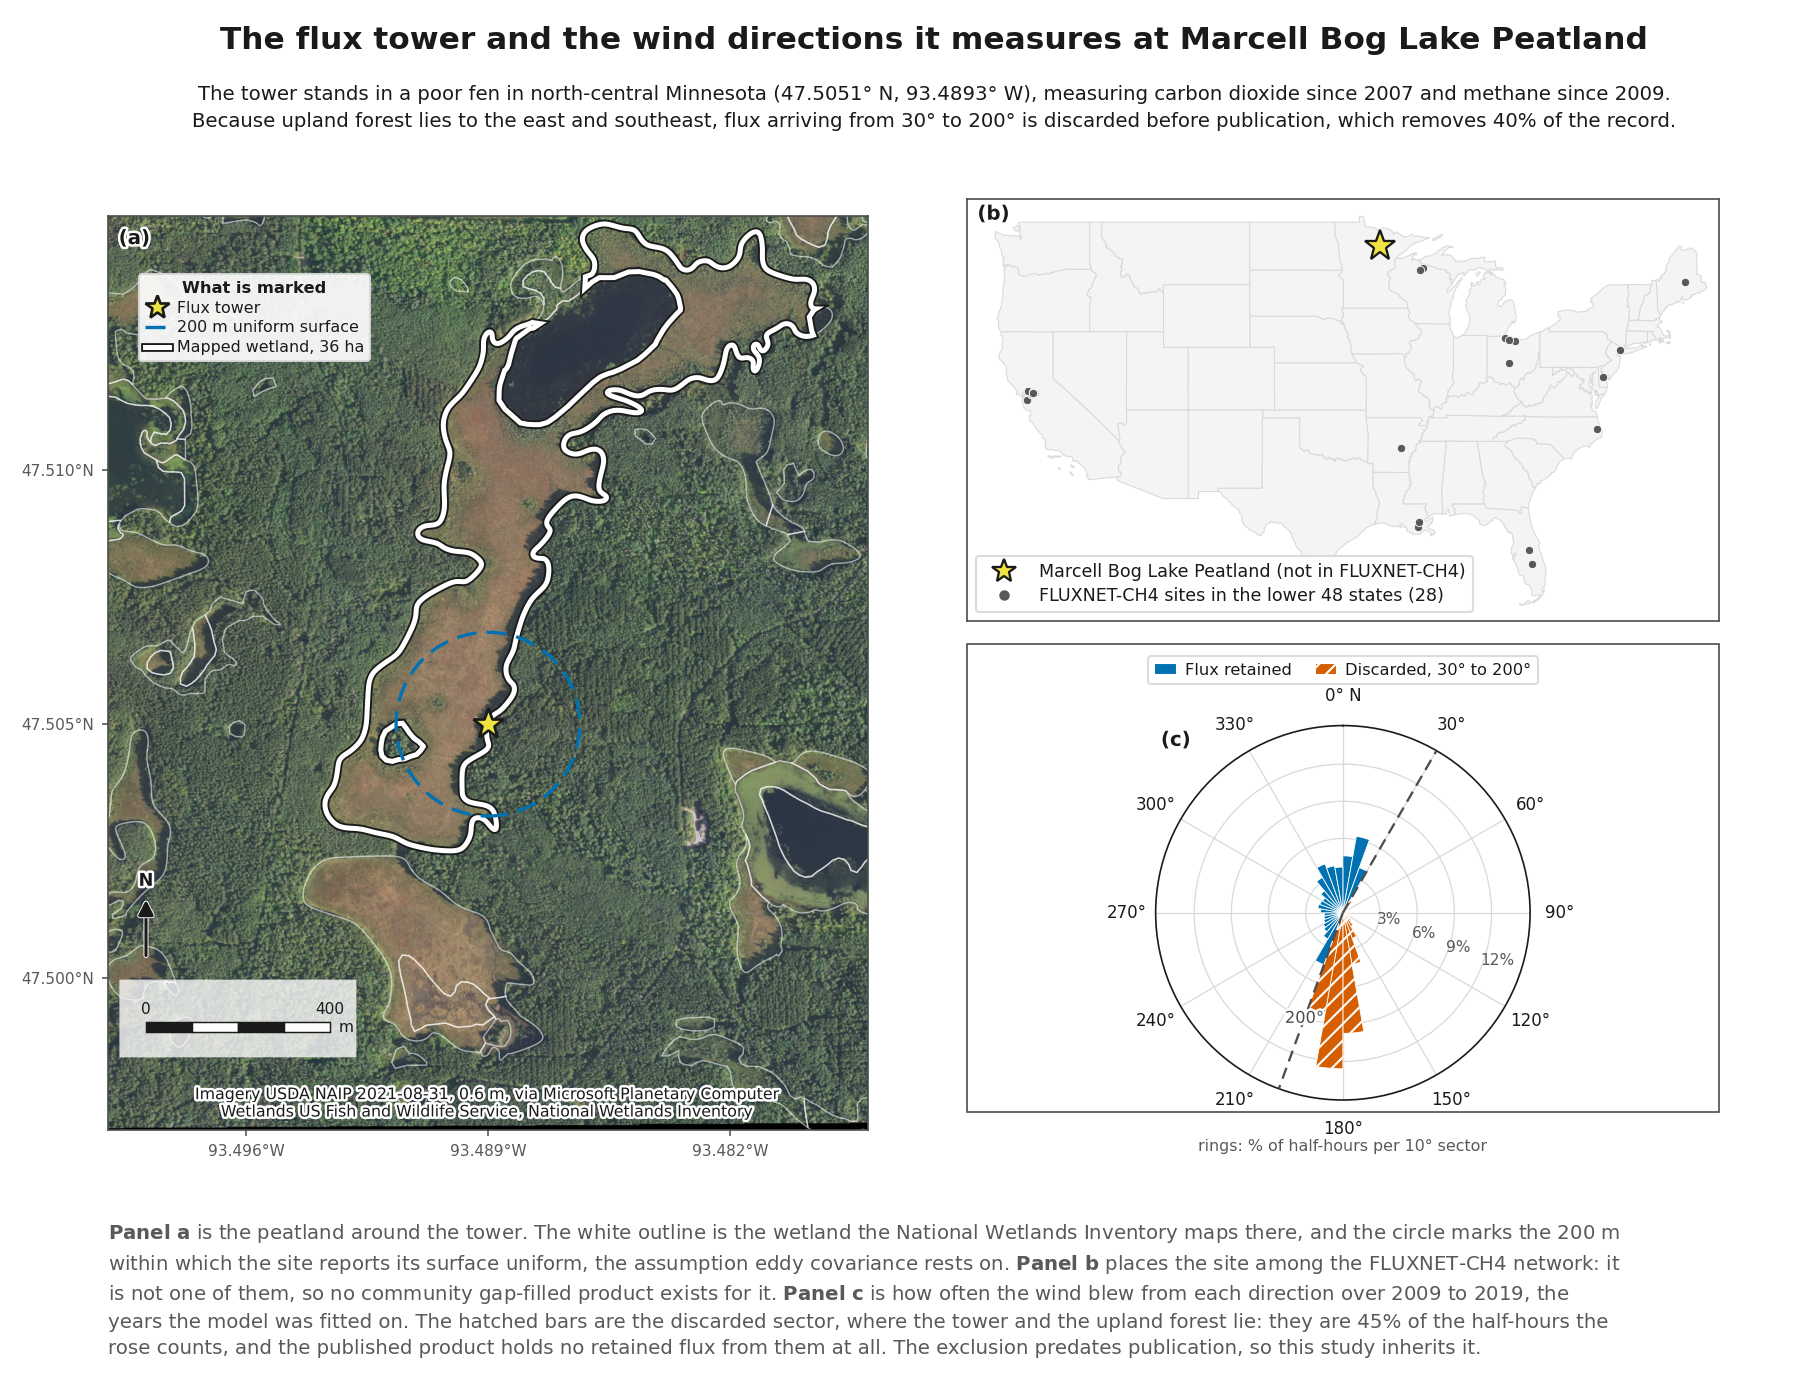
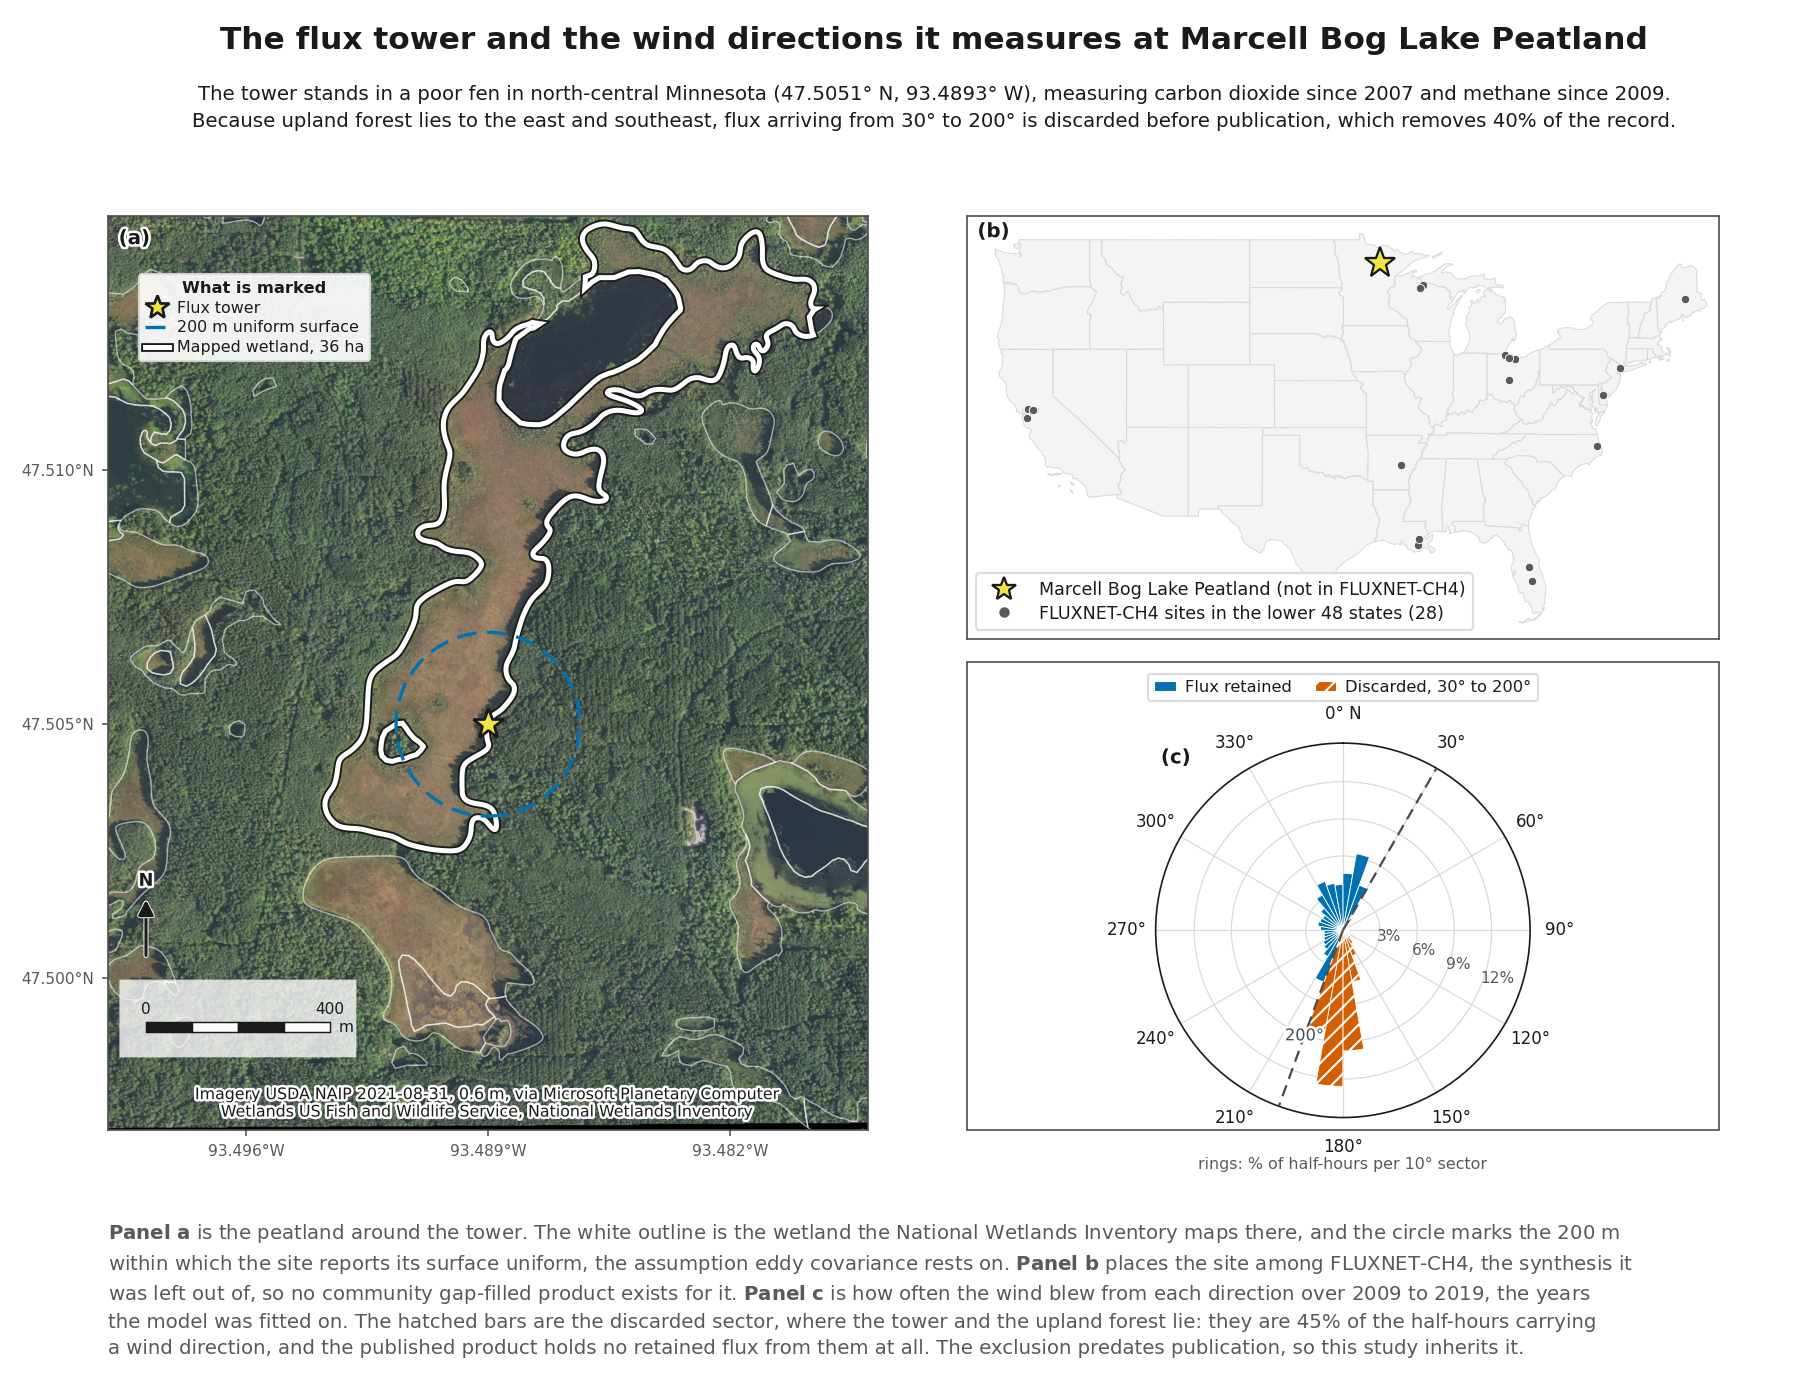
Align the columns, correct the FLUXNET-CH4 framing, name the denominator
Panel a holds the imagery's aspect and is width-limited, needing 789 px of
height for the 760 px of width it has against a 949 px slot, so matplotlib
centred it and left its top 17.5 px below panel b's and its bottom 18.5 px
below panel c's frame. Panel a is the one thing here that cannot move without
being stretched, so the column moves to it. Both right-hand rectangles shift by
the same amount, which preserves the 23.2 px inside the column, and the frame
takes its floor from panel a directly. Both edges now close to 0.00 px.

FLUXNET-CH4 is a synthesis assembled from the regional networks, not a network
with members: its own ORIGINAL_DATA_SOURCE column credits AmeriFlux for 45 of
the 79 sites in the metadata sheet, EuroFlux for 28, AsiaFlux for 5 and OzFlux
for 1. This site is itself an AmeriFlux site, since the product read here is
AMF_US-MBP_BASE-BADM_5-5. So it belongs to the network that supplied the
plurality and was left out of the synthesis, which is a different statement
from not belonging to the network. The description said the second and meant
the first.

The notes claimed the workbook names 65 AmeriFlux sites. No count in it is 65:
79 sites in the metadata sheet, 81 in the annual values, 45 from the Americas.

Panel c names its denominator again. The figure quotes 45% here and 40% in the
subtitle on two different bases, and naming the first is what lets a reader see
why they differ; "the half-hours the rose counts" left that to be inferred from
[…]

diff --git a/src/study/sitemap.py b/src/study/sitemap.py
@@ -94,12 +94,12 @@ SITEMAP_TEXT = ps.FigureText(
         "Panel a is the peatland around the tower. The white outline is the wetland "
         "the National Wetlands Inventory maps there, and the circle marks the 200 m "
         "within which the site reports its surface uniform, the assumption eddy "
-        "covariance rests on. Panel b places the site among the FLUXNET-CH4 network: "
-        "it is not one of them, so no community gap-filled product exists for it. "
+        "covariance rests on. Panel b places the site among FLUXNET-CH4, the synthesis it "
+        "was left out of, so no community gap-filled product exists for it. "
         "Panel c is how often the wind blew from each direction over 2009 to 2019, "
         "the years the model was fitted on. The hatched bars are the discarded "
         "sector, where the tower and the upland forest lie: they are 45% of the "
-        "half-hours the rose counts, and the published product holds no retained "
+        "half-hours carrying a wind direction, and the published product holds no retained "
         "flux from them at all. The exclusion predates publication, so this study "
         "inherits it."
     ),
@@ -384,11 +384,37 @@ def site_overview(image, wetlands: dict, states: dict, sites: pd.DataFrame,
     draw_sector(ax_rose, shares)
     for ax, letter in ((ax_site, "a"), (ax_net, "b"), (ax_rose, "c")):
         ps.panel_letter(ax, letter)
-    _frame_rose(fig, ax_rose, ax_net)
+    _align_right_column(fig, ax_site, ax_net, ax_rose)
+    _frame_rose(fig, ax_rose, ax_net, ax_site)
     return fig
 
 
-def _frame_rose(fig, ax_rose, ax_net) -> None:
+def _align_right_column(fig, ax_site, ax_net, ax_rose) -> None:
+    """Bring the right column's top down to panel a's.
+
+    Panel a holds the imagery's aspect, so it does not fill the rectangle it is
+    given: it is width-limited, needing 789 px of height for the 760 px of width
+    it has against a 949 px slot, and matplotlib centres what is left over. That
+    put its top 17.5 px below panel b's and its bottom 18.5 px below panel c's
+    frame, on a figure whose right column is otherwise two boxes on one measure.
+
+    Panel a is the one thing here that cannot move without being stretched, so
+    the column moves to it rather than the other way round. Both right-hand
+    rectangles shift by the same amount, which preserves every gap inside the
+    column, and the residual under a pixel is taken up by the frame, which is
+    drawn to panel a's floor directly.
+    """
+    fig.canvas.draw()
+    renderer = fig.canvas.get_renderer()
+    height_px = ps.SIZES["tall"][1]
+    drop = (ax_net.get_window_extent(renderer).y1
+            - ax_site.get_window_extent(renderer).y1) / height_px
+    for ax in (ax_net, ax_rose):
+        box = ax.get_position()
+        ax.set_position((box.x0, box.y0 - drop, box.width, box.height))
+
+
+def _frame_rose(fig, ax_rose, ax_net, ax_site) -> None:
     """Give panel c the rectangle the other two already have.
 
     Panels a and b are bounded by their own spines, so the only panel without a
@@ -402,6 +428,10 @@ def _frame_rose(fig, ax_rose, ax_net) -> None:
     The rectangle takes panel b's width, so the right column is two stacked
     boxes on one measure, and its height spans the rose and the legend above
     it. The ring note stays outside, where panel a's coordinate labels are.
+
+    Its floor is panel a's floor rather than the rose's own, so the two columns
+    close on one line. That is where the sub-pixel left over from shifting the
+    column goes, and it costs nothing: the rose is inside either way.
     """
     fig.canvas.draw()
     renderer = fig.canvas.get_renderer()
@@ -409,7 +439,7 @@ def _frame_rose(fig, ax_rose, ax_net) -> None:
     circle = ax_rose.get_window_extent(renderer)
     key = ax_rose.get_legend().get_window_extent(renderer)
     box = ax_net.get_window_extent(renderer)
-    bottom = circle.y0 - FRAME_PAD_PX
+    bottom = min(circle.y0 - FRAME_PAD_PX, ax_site.get_window_extent(renderer).y0)
     top = key.y1 + FRAME_PAD_PX
     fig.add_artist(Rectangle(
         (box.x0 / width_px, bottom / height_px),

diff --git a/src/study/plotstyle.py b/src/study/plotstyle.py
@@ -41,8 +41,8 @@ from ingest import paths
 #
 # These two are the support encoding. They appear on the reconstruction figures
 # for whether a month lies inside the fitted range, and on the site map for
-# whether a wind sector is retained or discarded and for whether the site is in
-# the FLUXNET-CH4 network. They are the strongest separation in the set, 111.7
+# whether a wind sector is retained or discarded and for whether the site was
+# gathered into FLUXNET-CH4. They are the strongest separation in the set, 111.7
 # apart under deuteranopia and 93.3 under protanopia.
 #
 #   FITTED  #009E73  the range across the eight fitted models, and on the

diff --git a/figures/README_fragments.md b/figures/README_fragments.md
@@ -12,7 +12,7 @@ Reconstruction means estimating methane emissions for years before measurements 
 
 **The tower stands in a poor fen in north-central Minnesota (47.5051° N, 93.4893° W), measuring carbon dioxide since 2007 and methane since 2009. Because upland forest lies to the east and southeast, flux arriving from 30° to 200° is discarded before publication, which removes 40% of the record.**
 
-Panel a is the peatland around the tower. The white outline is the wetland the National Wetlands Inventory maps there, and the circle marks the 200 m within which the site reports its surface uniform, the assumption eddy covariance rests on. Panel b places the site among the FLUXNET-CH4 network: it is not one of them, so no community gap-filled product exists for it. Panel c is how often the wind blew from each direction over 2009 to 2019, the years the model was fitted on. The hatched bars are the discarded sector, where the tower and the upland forest lie: they are 45% of the half-hours the rose counts, and the published product holds no retained flux from them at all. The exclusion predates publication, so this study inherits it.
+Panel a is the peatland around the tower. The white outline is the wetland the National Wetlands Inventory maps there, and the circle marks the 200 m within which the site reports its surface uniform, the assumption eddy covariance rests on. Panel b places the site among FLUXNET-CH4, the synthesis it was left out of, so no community gap-filled product exists for it. Panel c is how often the wind blew from each direction over 2009 to 2019, the years the model was fitted on. The hatched bars are the discarded sector, where the tower and the upland forest lie: they are 45% of the half-hours carrying a wind direction, and the published product holds no retained flux from them at all. The exclusion predates publication, so this study inherits it.
 
 ### Reconstructed methane emission at Marcell Bog Lake Peatland (1990 to 2008)
 

diff --git a/notes/study.md b/notes/study.md
@@ -733,7 +733,16 @@ Data **13**, 3607-3689,
 doi:[10.5194/essd-13-3607-2021](https://doi.org/10.5194/essd-13-3607-2021), with
 the appendix archived at
 doi:[10.5281/zenodo.4672601](https://doi.org/10.5281/zenodo.4672601) under
-CC-BY-4.0. The workbook names 65 AmeriFlux sites and none is US-MBP; no cell
+CC-BY-4.0. The workbook is a synthesis rather than a network: its own
+`ORIGINAL_DATA_SOURCE` column credits AmeriFlux for 45 of the 79 sites in the
+metadata sheet, EuroFlux for 28, AsiaFlux for 5 and OzFlux for 1. None of the
+45 is US-MBP, which is itself an AmeriFlux site: the product this study reads
+is `AMF_US-MBP_BASE-BADM_5-5`. So the site belongs to the network that supplied
+the plurality of FLUXNET-CH4 and was not gathered into the synthesis, which is a
+different statement from not belonging to the network, and the figure must not
+conflate them. (An earlier version of this note said the workbook names 65
+AmeriFlux sites. No count in it is 65: the metadata sheet holds 79 sites, the
+annual-values sheet 81, and the Americas prefixes total 45.) No cell
 contains "MBP", "Marcell" or "Bog Lake"; and no site lies within 100 km of
 47.505 N, −93.489 W. The nearest are US-PFa at 300 km, classified upland, and
 US-Los at 310 km, a fen in the same climate zone and the closest usable
